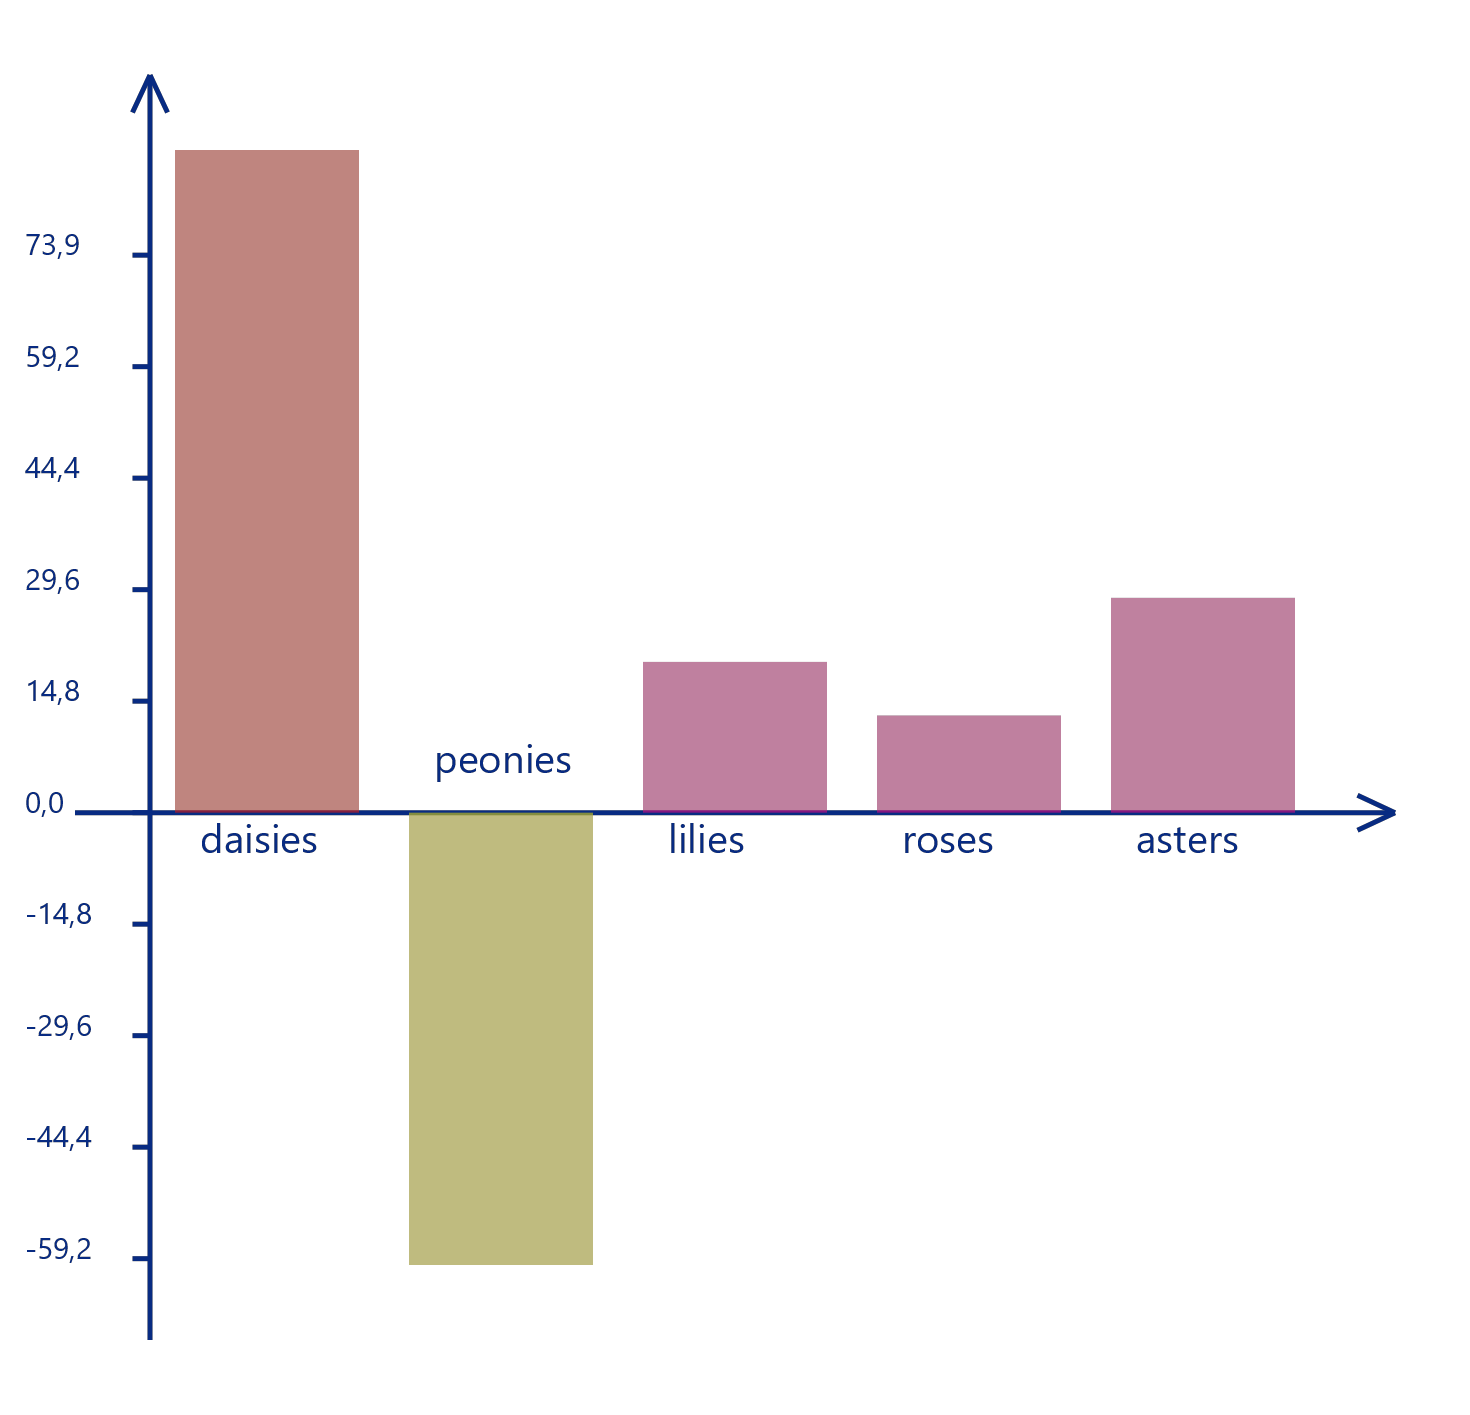
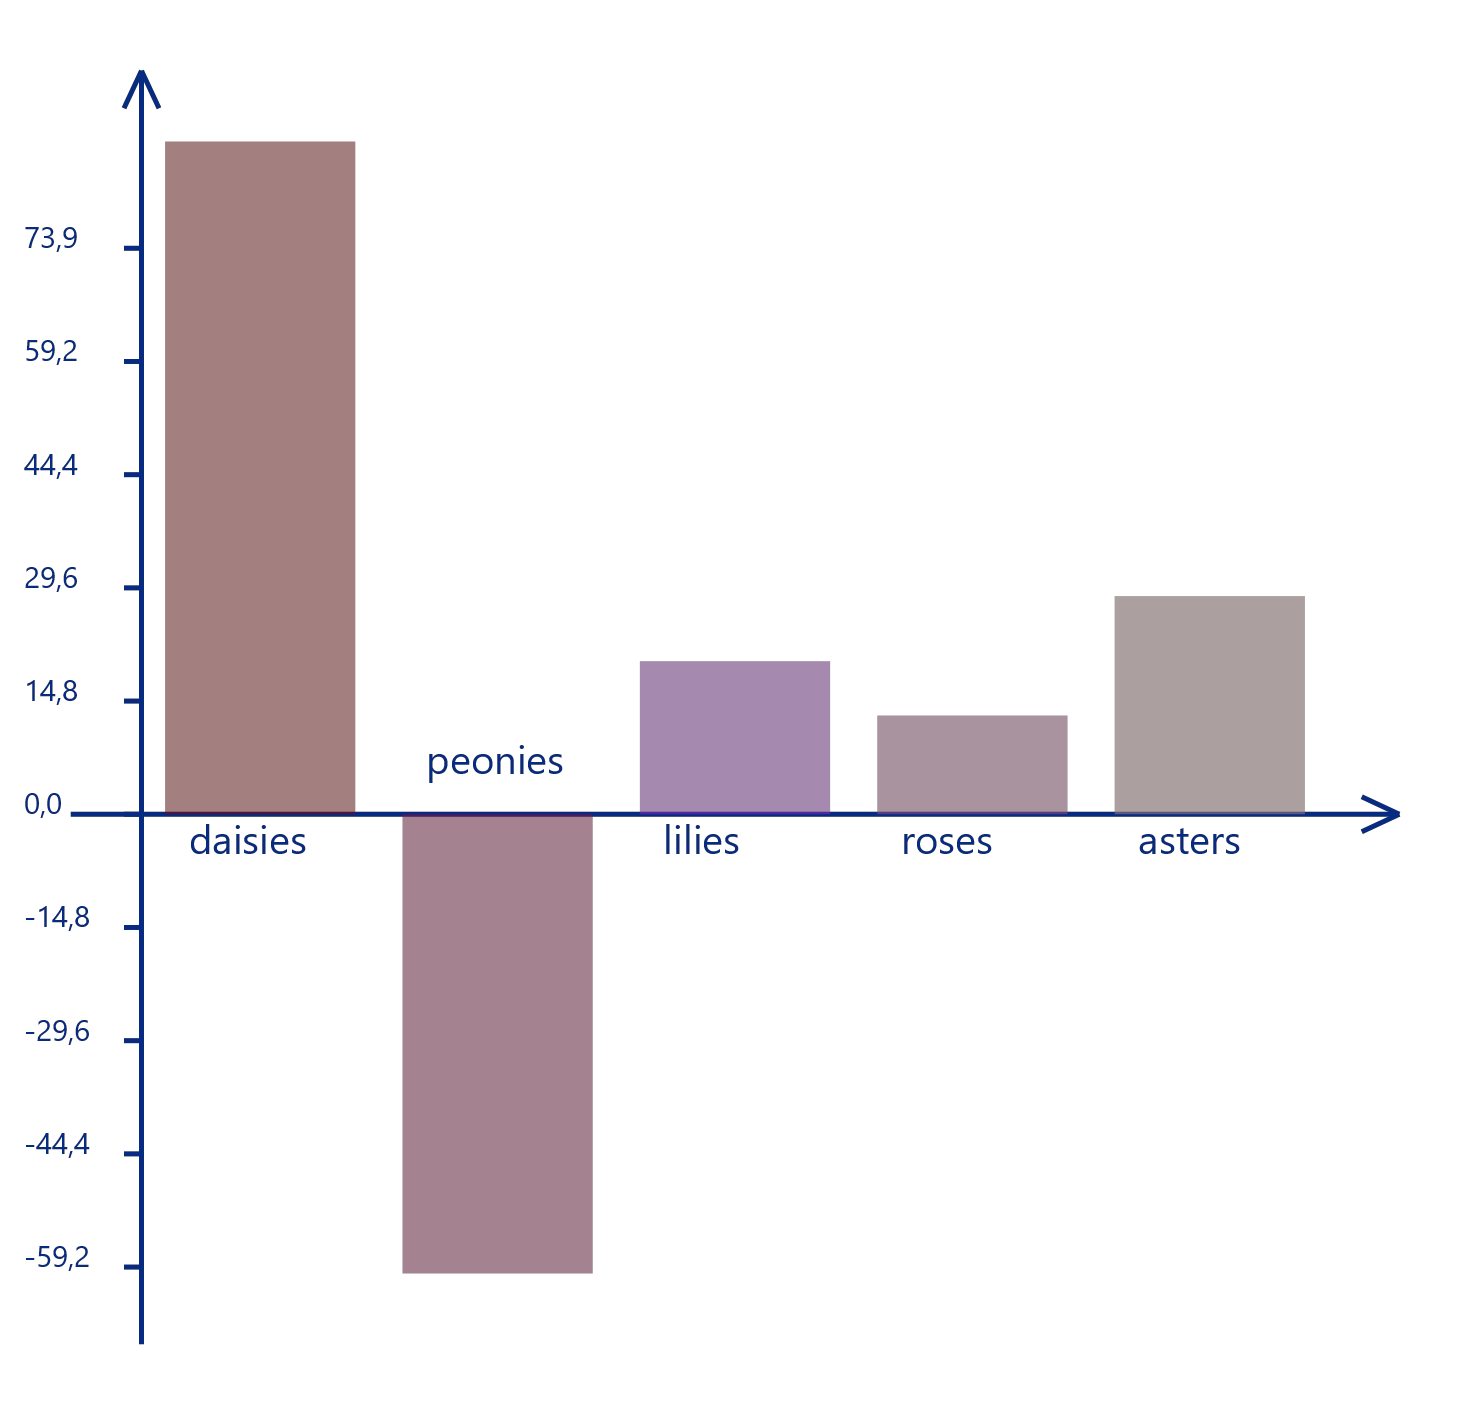
colors updated & new tests

diff --git a/src/main/kotlin/renderer.kt b/src/main/kotlin/renderer.kt
@@ -67,17 +67,17 @@ class Renderer(private val layer: SkiaLayer) : SkiaRenderer {
         // drawing the diagram itself
         var angleRad = 0.5 * Math.PI    // stores the angle of the right bound of current sector in radians
         val currPaint = Paint().apply {
-            color = 0xf00000000.toInt()
+            color = 0x808f0000.toInt()
             mode = PaintMode.FILL
             strokeWidth = 2f
         }
 
-        data.forEach {
-            val size = it.value / sumVal    //  size of sector in percentages
+        data.forEachIndexed { ind, element ->
+            val size = element.value / sumVal    //  size of sector in percentages
             val deltaRad = size * 2 * Math.PI    //  turning angle in radians
 
             // filling sector
-            currPaint.color = ((it.value / sumVal) * 100000 + 0x80ff0000.toInt()).toInt()
+            currPaint.color += (1000000 * ind) / data.size
             canvas.drawArc(
                 centerX - radius, centerY - radius,
                 centerX + radius, centerY + radius,
@@ -92,7 +92,7 @@ class Renderer(private val layer: SkiaLayer) : SkiaRenderer {
             )
 
             // writing text
-            writeInSector(canvas, centerX, centerY, (angleRad + deltaRad / 2).toFloat(), radius, it, mainPaint)
+            writeInSector(canvas, centerX, centerY, (angleRad + deltaRad / 2).toFloat(), radius, element, mainPaint)
 
             angleRad += deltaRad
         }
@@ -173,20 +173,20 @@ class Renderer(private val layer: SkiaLayer) : SkiaRenderer {
         var left = bigEps + smallEps
         var right = bigEps + sizeX - smallEps
         val currPaint = Paint().apply {
-            color = 0x80000000.toInt() // green
+            color = 0x808f0000.toInt()
             mode = PaintMode.FILL
             strokeWidth = 2f
         }
-        data.forEach {
+        data.forEachIndexed {ind, element ->
             // determining top/bottom coordinate
-            val y = if (it.value > 0) {
-                zeroY - (height - 2 * bigEps) * (it.value / rangeY)
+            val y = if (element.value > 0) {
+                zeroY - (height - 2 * bigEps) * (element.value / rangeY)
             } else {
-                zeroY + (height - 2 * bigEps) * (abs(it.value) / rangeY)
+                zeroY + (height - 2 * bigEps) * (abs(element.value) / rangeY)
             }
 
             // adjusting the color
-            currPaint.color = ((it.value / rangeY) * 10000 + 0x80ff0000.toInt()).toInt()
+            currPaint.color += (1000000 * ind) / data.size
 
             val rect = Rect(left, max(y, zeroY), right, min(y, zeroY))
             canvas.drawRect(rect, currPaint)
@@ -194,8 +194,8 @@ class Renderer(private val layer: SkiaLayer) : SkiaRenderer {
             // adding text
             val textEps = font.size
             val textX = left + smallEps
-            val textY = zeroY + textEps * (it.value.sign)
-            canvas.drawString(it.type, textX, textY, font, mainPaint)
+            val textY = zeroY + textEps * (element.value.sign)
+            canvas.drawString(element.type, textX, textY, font, mainPaint)
 
             // moving to the next rectangle
             left += sizeX

diff --git a/src/test/kotlin/Test1.kt b/src/test/kotlin/Test1.kt
@@ -2,6 +2,7 @@ import org.jetbrains.skiko.toBitmap
 import org.jetbrains.skiko.toImage
 import java.io.File
 import javax.imageio.ImageIO
+import kotlin.math.E
 import kotlin.test.Test
 import kotlin.test.assertEquals
 import kotlin.test.assertFailsWith
@@ -24,6 +25,8 @@ internal class TestQuery {
         )
         val input = arrayOf("scatterplot", "gold", "16", "rose", "-1.7", "src/data/img1")
         assertEquals(expected, parseArgs(input))
+
+        File("src/data/ing1").deleteRecursively()
     }
 
     @Test
@@ -50,6 +53,31 @@ internal class TestQuery {
     }
 
     @Test
+    fun testRoundDiagram2() {
+        val tmpFile = File("src/data/tmp.png")
+        val query = Query(
+            DiagramType.Round,
+            listOf(
+                Element("A", 83f), Element("B", 54f), Element("C", 94f),
+                Element("D", 30f), Element("E", 77f), Element("F", 31f),
+                Element("G", 36f), Element("H", 87f), Element("I", 74f),
+                Element("J", 67f)
+            ),
+            tmpFile
+        )
+        createWindow("test", query)
+
+        val realFile = File("src/data/round2.png")
+
+        val realImage = ImageIO.read(realFile).toImage().encodeToData()
+        val tmpImage = ImageIO.read(tmpFile).toImage().encodeToData()
+
+        assertEquals(realImage, tmpImage)
+
+        tmpFile.deleteRecursively()
+    }
+
+    @Test
     fun testHistogram1() {
         val tmpFile = File("src/data/tmp.png")
         val query = Query(
@@ -64,6 +92,31 @@ internal class TestQuery {
         createWindow("test", query)
 
         val realFile = File("src/data/histo1.png")
+
+        val realImage = ImageIO.read(realFile).toImage().encodeToData()
+        val tmpImage = ImageIO.read(tmpFile).toImage().encodeToData()
+
+        assertEquals(realImage, tmpImage)
+
+        tmpFile.deleteRecursively()
+    }
+
+    @Test
+    fun testHistogram2() {
+        val tmpFile = File("src/data/tmp.png")
+        val query = Query(
+            DiagramType.Histogram,
+            listOf(
+                Element("A", 30f), Element("B", 51f), Element("C", 35f),
+                Element("D", 59f), Element("E", 81f), Element("F", 30F),
+                Element("G", 63f), Element("H", 96f), Element("I", 51f),
+                Element("J", 71f)
+            ),
+            tmpFile
+        )
+        createWindow("test", query)
+
+        val realFile = File("src/data/histo2.png")
 
         val realImage = ImageIO.read(realFile).toImage().encodeToData()
         val tmpImage = ImageIO.read(tmpFile).toImage().encodeToData()
